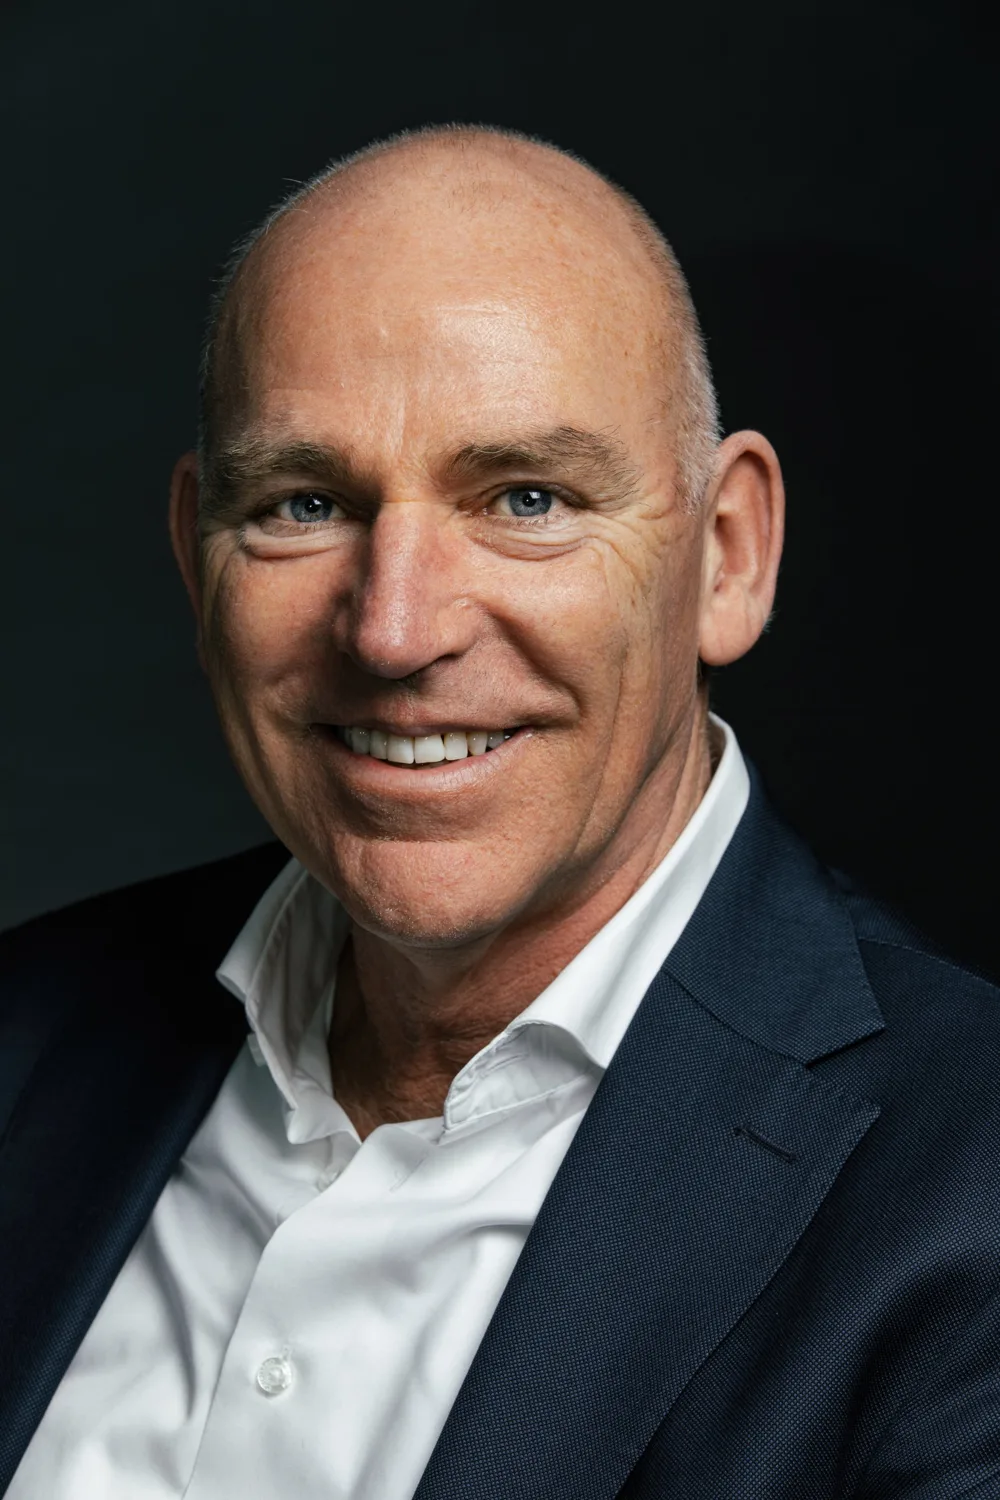
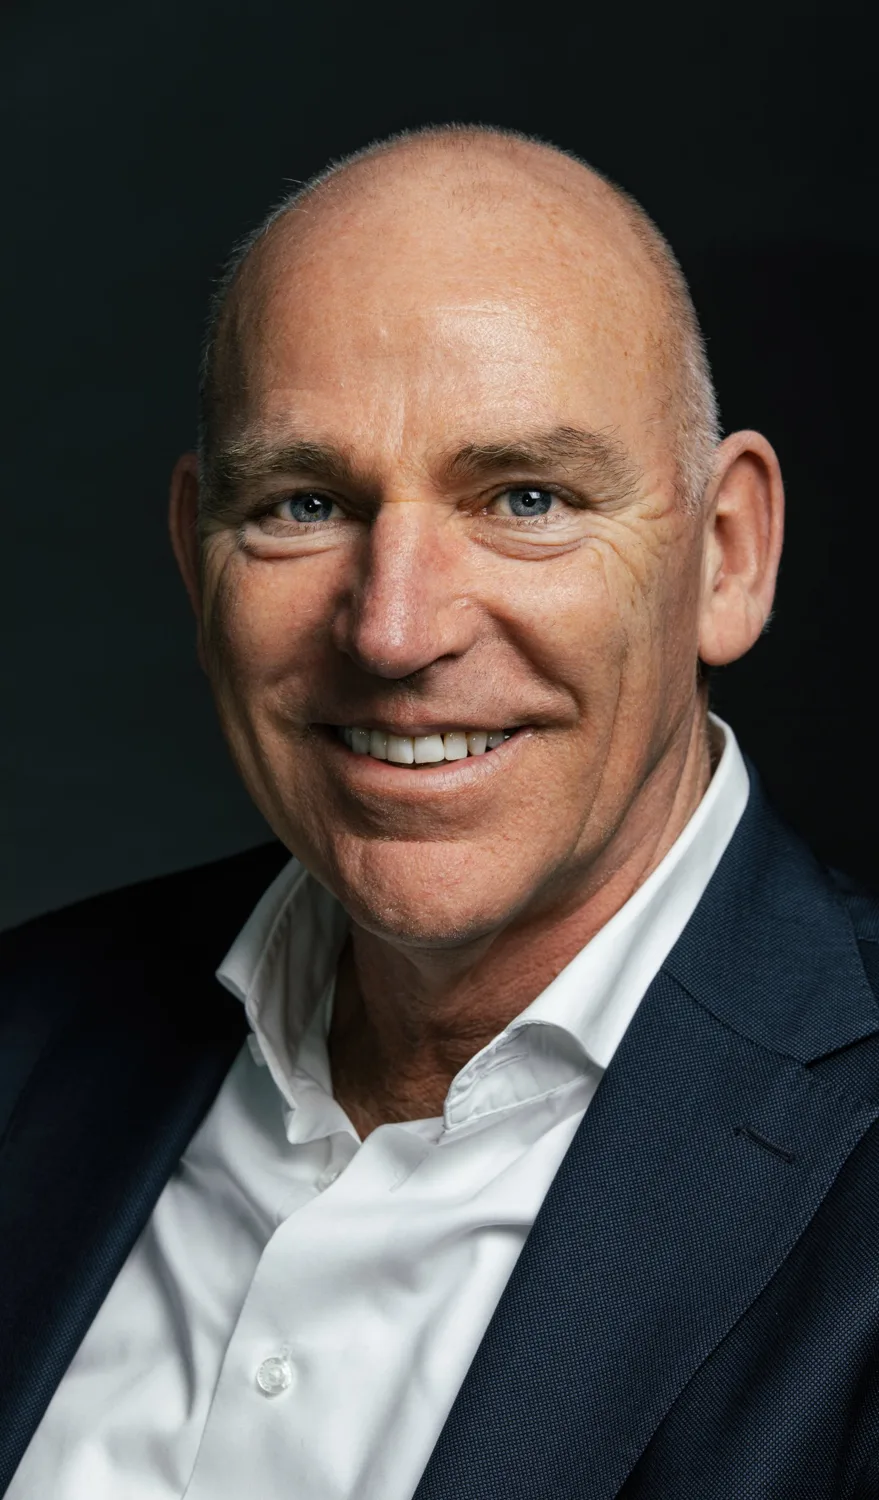
Add files via upload

diff --git a/en/index.html b/en/index.html
@@ -2,38 +2,103 @@
 layout: default
 lang: en
 title: "In English"
-description: "Research on work engagement, burnout, well-being, motivation and meaningful work."
+description: "Research, lectures and talks on leadership, motivation, work engagement, burnout and meaningful work."
 ---
 {% assign p = site.data.profiel %}
 
 <section class="hero">
-  <div class="wrap narrow">
-    <h1>The psychology of leadership, motivation and meaningful work</h1>
-    <p class="lead">I am an Associate Professor at Nyenrode Business University and affiliated with the Knowledge Institute of Work and Health at Arbo Unie, the Netherlands. I received my PhD in psychology from Utrecht University (2021) on leadership, purpose, values and motivation at work. Before returning to academia I worked in telecommunications and business development and as an international executive coach.</p>
+  <div class="wrap hero-grid">
+    <div>
+      <h1>The psychology of leadership, motivation and meaningful work</h1>
+      <p class="lead">What makes work enjoyable and meaningful? And how can organizations shape it?</p>
+      <p class="buttons">
+        <a class="btn" href="#research">See my research</a>
+        <a class="btn btn-ghost" href="#talks">Book a talk</a>
+      </p>
+    </div>
+    <figure class="portret">
+      <img src="{{ '/assets/img/' | append: p.fotos.portret | relative_url }}" alt="Portrait of Lars van Tuin" width="480" height="600">
+      <figcaption>Photo Martina Ketelaar</figcaption>
+    </figure>
   </div>
 </section>
 
 <section id="research" class="section">
-  <div class="wrap narrow">
+  <div class="wrap">
     <h2>Research</h2>
-    <p>Using large-scale occupational health data, I study which job characteristics foster work engagement and protect against burnout, within the Job Demands-Resources framework. Current projects examine how hybrid work shifts the weight of meaningful work for engagement and turnover intention, and which factors predict sickness absence due to mental health complaints. Underlying this work is a long-standing interest in leadership, basic psychological needs, values and organizational purpose.</p>
+    <div class="cards">
+      {% for o in site.data.onderzoek %}
+      <article class="card">
+        <h3>{{ o.titel_en }}</h3>
+        <p>{{ o.tekst_en }}</p>
+      </article>
+      {% endfor %}
+    </div>
   </div>
 </section>
 
 <section id="publications" class="section alt">
-  <div class="wrap narrow">
-    <h2>Selected publications</h2>
+  <div class="wrap">
+    <h2>Publications</h2>
+    <h3>Scientific work</h3>
     <ul class="pubs">
       {% for item in site.data.wetenschappelijk %}{% include pub.html item=item lang='en' %}{% endfor %}
     </ul>
-    <p class="meer">Full list: <a href="{{ p.links.orcid }}">ORCID</a> · <a href="{{ p.links.scholar }}">Google Scholar</a></p>
+    <p class="meer">Full list and citations: <a href="{{ p.links.orcid }}">ORCID</a> · <a href="{{ p.links.scholar }}">Google Scholar</a></p>
+
+    <h3 style="margin-top:2.5rem">Essays in English</h3>
+    <ul class="pubs">
+      {% for post in site.posts %}{% if post.taal == 'en' %}
+      <li class="pub"><span class="pub-jaar">{{ post.date | date: "%Y" }}</span><div><a class="pub-titel" href="{{ post.url | relative_url }}">{{ post.title }}</a></div></li>
+      {% endif %}{% endfor %}
+    </ul>
+    <p class="meer">More writing, mostly in Dutch: <a href="{{ '/blogs/' | relative_url }}">blog</a></p>
+  </div>
+</section>
+
+<section id="talks" class="section">
+  <div class="wrap">
+    <h2>Lectures and talks</h2>
+    <p class="lead">{{ site.data.lezingen.publiek_en }}</p>
+    <div class="cards">
+      {% for l in site.data.lezingen.onderwerpen %}
+      <article class="card">
+        <h3>{{ l.titel_en }}</h3>
+        <p>{{ l.tekst_en }}</p>
+      </article>
+      {% endfor %}
+    </div>
+    <div class="fotos">
+      <figure><img src="{{ '/assets/img/' | append: p.fotos.lezing | relative_url }}" alt="Lars van Tuin speaking to a group in a church hall" loading="lazy"><figcaption>Talk</figcaption></figure>
+      <figure><img src="{{ '/assets/img/' | append: p.fotos.collegezaal | relative_url }}" alt="Lecture hall at Nyenrode with a slide on leadership and motivation" loading="lazy"><figcaption>Lecture hall at Nyenrode</figcaption></figure>
+    </div>
+    <p class="buttons">
+      <a class="btn" href="#contact">Get in touch</a>
+    </p>
+  </div>
+</section>
+
+<section id="about" class="section alt">
+  <div class="wrap narrow">
+    <h2>About</h2>
+    <p>I am an Associate Professor at Nyenrode Business University and affiliated with the Knowledge Institute of Work and Health at Arbo Unie, the Netherlands. At Nyenrode I teach and study leadership, motivation and meaning. At Arbo Unie I use occupational health data to study how working conditions, work engagement and well-being are related.</p>
+    <p>My path to academia ran through practice. After studying political science I worked in the semi-public sector and in telecommunications, most recently as business development manager for international internet strategy and mergers and acquisitions. I then became an executive coach. I worked with leaders in industries including automotive, financial services, energy, telecom, pharma and retail, was a mentor and program coach with Newfield Network in Asia, Europe, South Africa and the US, and a coach and guest lecturer in the Global Leadership Program of International Christian University in Tokyo.</p>
+    <p>The questions I met in practice brought me back to research: why do people flourish in one job and burn out in another? I received my PhD in psychology on this topic from Utrecht University in 2021.</p>
+    <dl class="cv">
+      <dt>2021</dt><dd>PhD in psychology, Utrecht University</dd>
+      <dt>2008</dt><dd>Professional Certified Coach (ICF) and Newfield Certified Ontological Coach</dd>
+      <dt>2001</dt><dd>Postgraduate program, IMD Lausanne</dd>
+      <dt>1998</dt><dd>Postgraduate program, Ashridge (UK)</dd>
+      <dt>1992</dt><dd>Political Science (cum laude), University of Amsterdam</dd>
+    </dl>
+    <p><a href="{{ p.links.nyenrode }}">Profile at Nyenrode</a> · <a href="{{ p.links.kennisinstituut }}">Knowledge Institute of Work and Health</a></p>
   </div>
 </section>
 
 <section id="contact" class="section">
   <div class="wrap narrow">
     <h2>Contact</h2>
-    <p>For research collaboration, lectures or talks.</p>
+    <p>For lectures, talks or research collaboration.</p>
     <p class="buttons">
       {% if p.email and p.email != "" %}<a class="btn" href="mailto:{{ p.email }}">{{ p.email }}</a>{% endif %}
       <a class="btn {% if p.email and p.email != '' %}btn-ghost{% endif %}" href="{{ p.links.linkedin }}">LinkedIn</a>

diff --git a/_layouts/default.html b/_layouts/default.html
@@ -47,6 +47,8 @@
         {% if page.lang == 'en' %}
           <a href="#research">Research</a>
           <a href="#publications">Publications</a>
+          <a href="#talks">Talks</a>
+          <a href="#about">About</a>
           <a href="#contact">Contact</a>
           <a class="lang" href="{{ '/' | relative_url }}" hreflang="nl">NL</a>
         {% else %}
